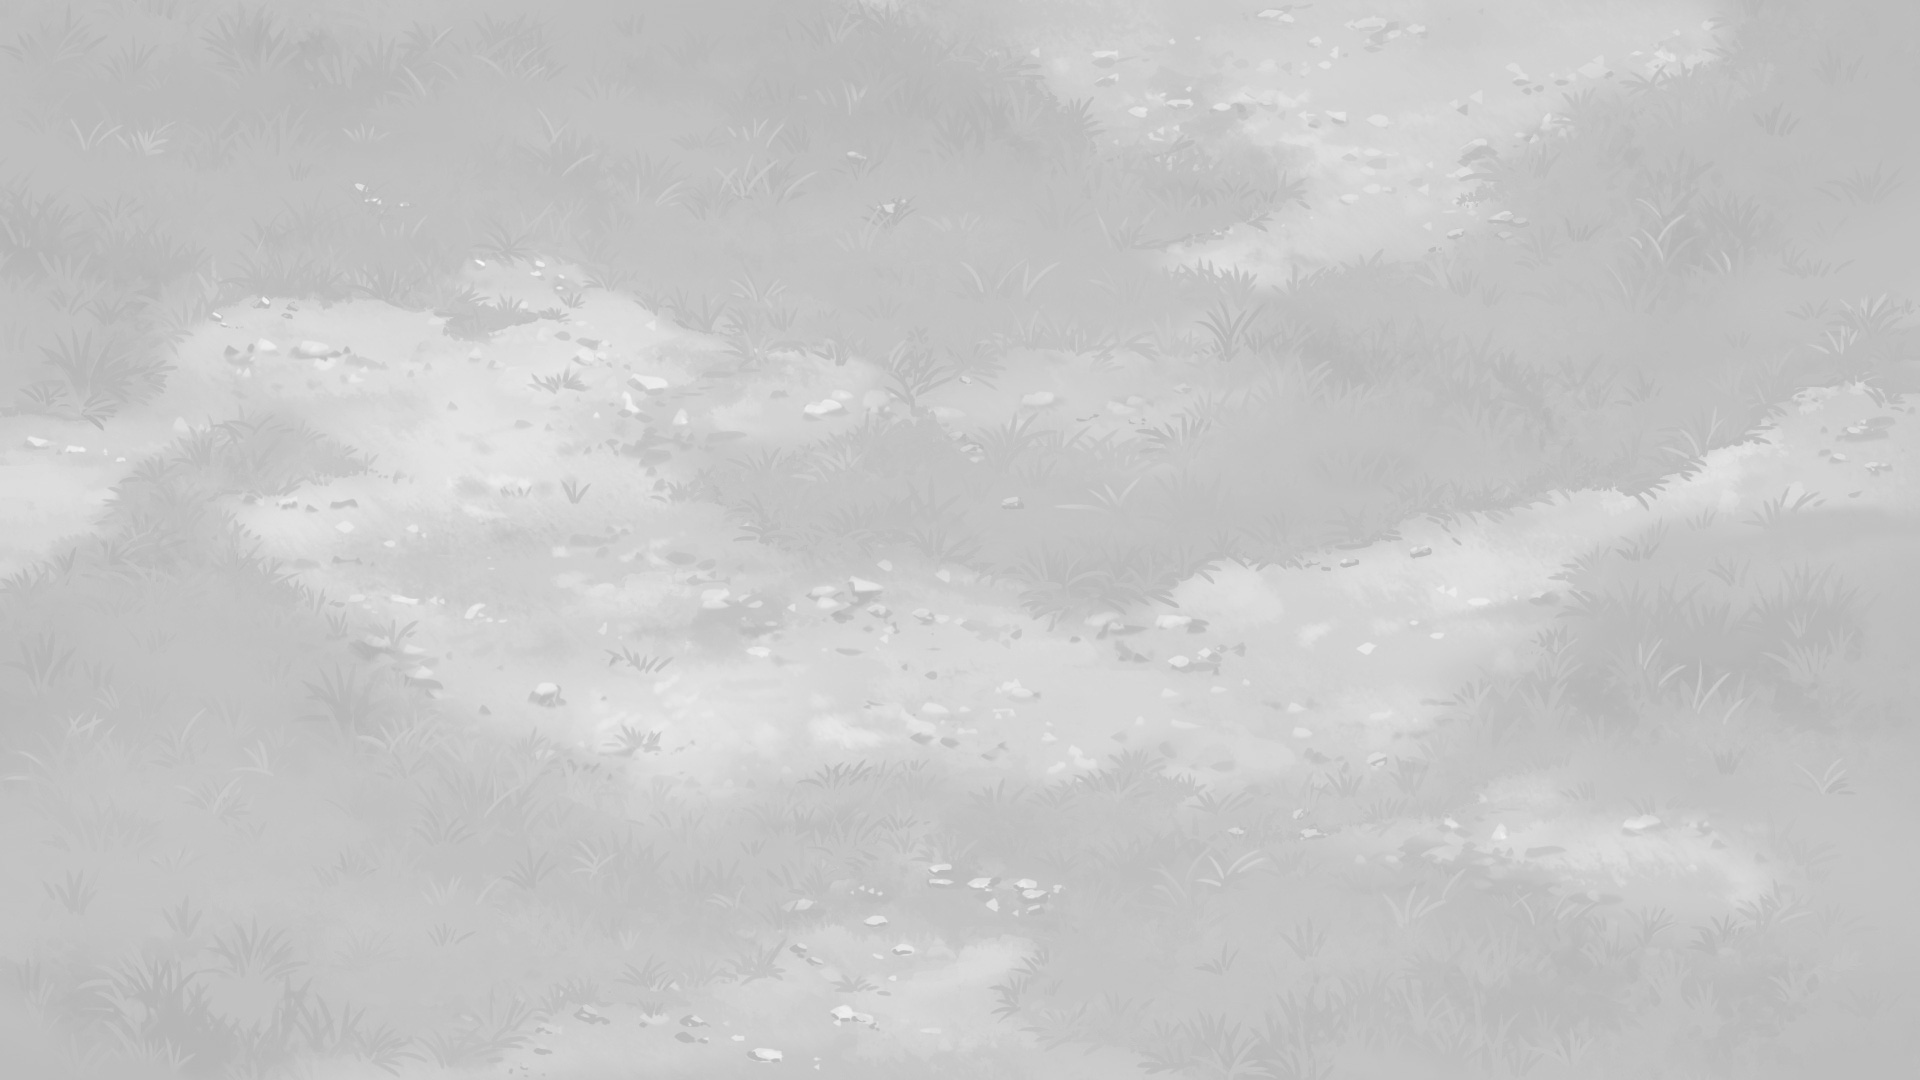
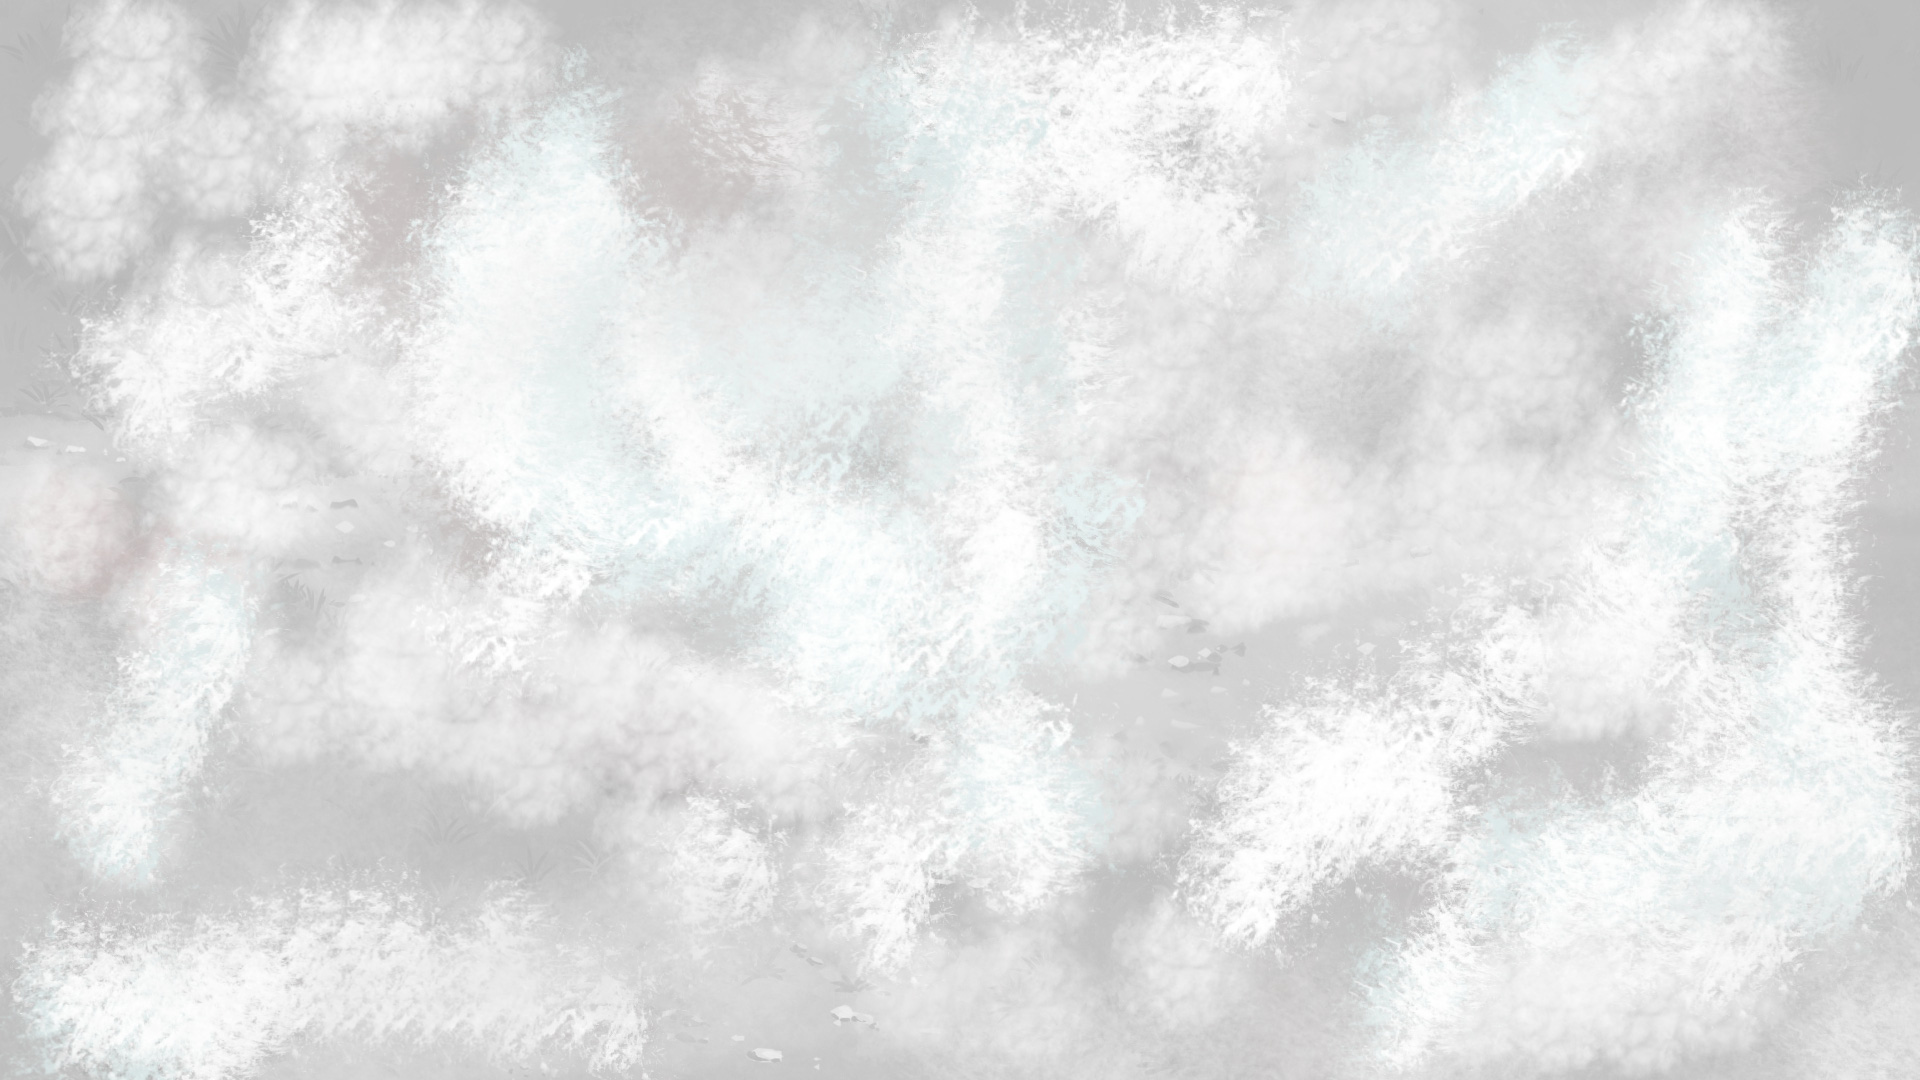
A

diff --git a/ToyGame/KitGame/Scenes/FieldScene.cpp b/ToyGame/KitGame/Scenes/FieldScene.cpp
@@ -84,7 +84,7 @@ void FieldScene::InitScene()
         // ---------------------------------------------------------
         // 基本
         // ---------------------------------------------------------
-        desc.maxParticles = 256;
+        desc.maxParticles = 512;
 
         desc.componentLife = 0.0f;   // 常時稼働
         desc.particleLife  = 10.0f;
@@ -106,7 +106,7 @@ void FieldScene::InitScene()
         // ---------------------------------------------------------
         // SnowField 専用
         // ---------------------------------------------------------
-        desc.fieldExtent = Vector3(40.0f, 18.0f, 40.0f);
+        desc.fieldExtent = Vector3(60.0f, 18.0f, 60.0f);
         desc.wind         = Vector3(0.12f, 0.0f, 0.05f);
 
         desc.followCamera = true;